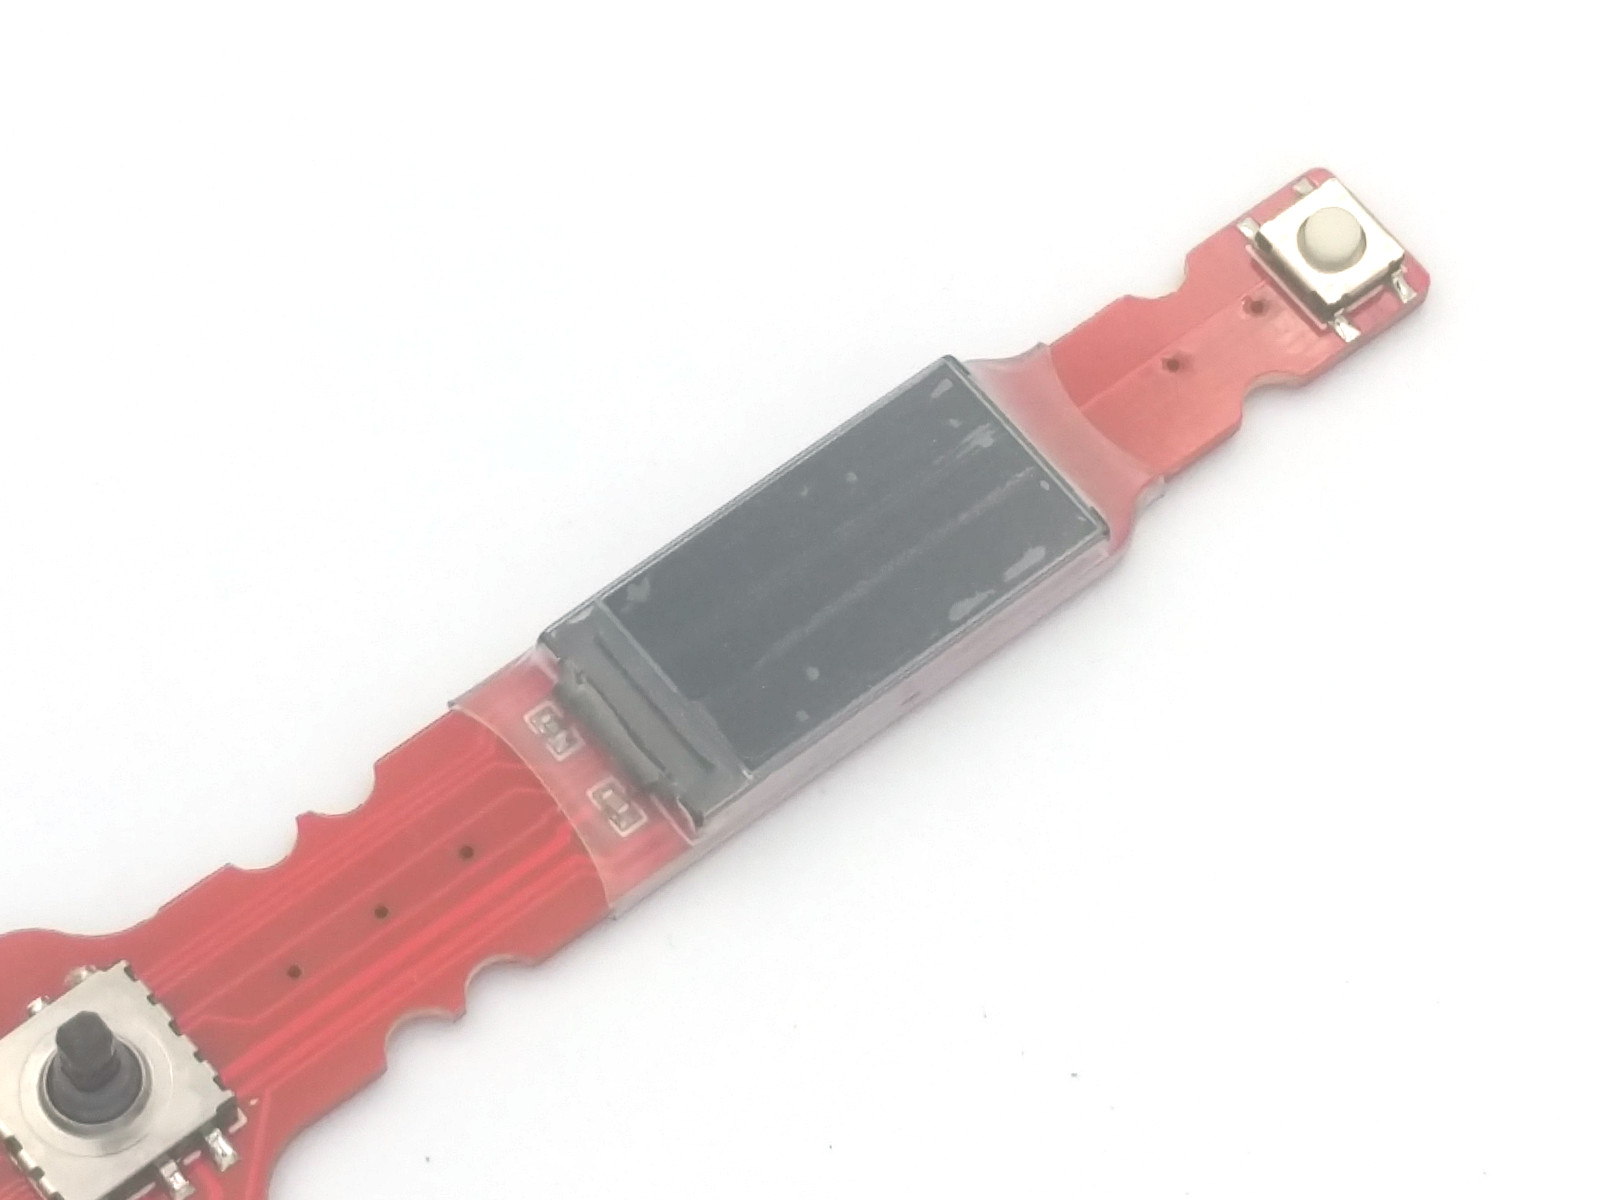
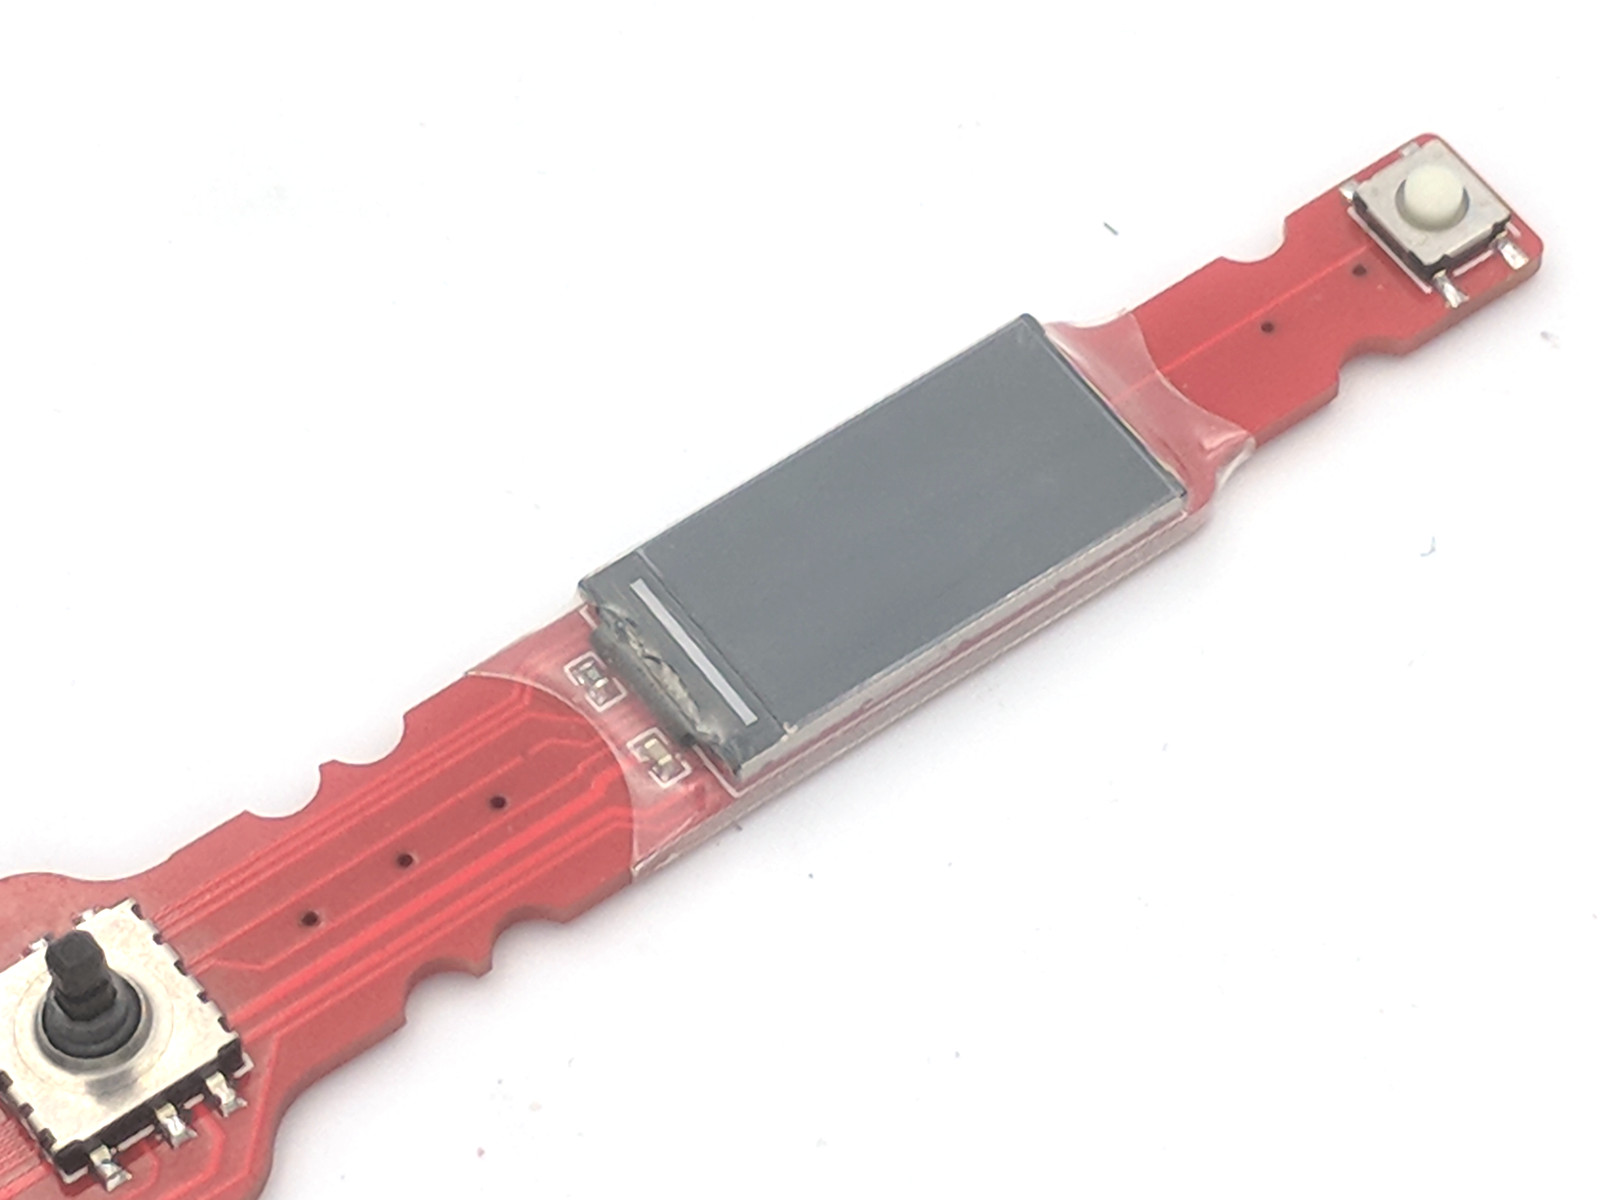
doc: use PVC heat shrink tube for display

Changed region(s): [[0.0, 0.0925, 0.9688, 1.0], [0.4688, 0.3392, 0.5625, 0.4008], [0.4375, 0.4008, 0.4688, 0.4317]]

diff --git a/doc/assembly.md b/doc/assembly.md
@@ -4,7 +4,7 @@ Device assembly <!-- omit in toc -->
 - [Required components](#required-components)
 - [PCB assembly](#pcb-assembly)
 - [Firmware upload](#firmware-upload)
-- [Motor &amp; syringe mount](#motor-amp-syringe-mount)
+- [Motor & syringe mount](#motor--syringe-mount)
 - [Needle caps](#needle-caps)
 - [The end :)](#the-end)
 
@@ -20,7 +20,7 @@ paste, low temp paste, flux).
 2 | [0.96" IPS Display](https://www.aliexpress.com/item/32861823719.html) |
 3 | [Micro stepper motor](https://www.aliexpress.com/item/32979960185.html) | Other motors will need rework of 3d-printed supports.
 4 | [Gearbox 1:300+ with long shaft](https://www.aliexpress.com/item/32987637967.html) | For max gear ratio select lowest RPM.
-5 | [Transparent heat shrink tube 18mm](https://www.aliexpress.com/item/32791427710.html) | Display mount.
+5 | [PVC transparent heat shrink tube 23mm](https://aliexpress.ru/item/32787322976.html) | Display mount.
 6 | [Double side foam tape, 15*1mm](https://www.aliexpress.com/item/33050888785.html) | Display mount.
 6 | [22 AWG wire](https://www.aliexpress.com/item/32854919883.html) | SMT stencil positioning & motor/syringe supports mount.
 7 | [Heat shrink tube 35mm](https://www.aliexpress.com/item/32791427710.html) | Motor mount / electronics protection.
@@ -67,15 +67,14 @@ Now mount LCD to PCB:
 
 - Use double side foam tape. Stick to LCD first, then cut borders, then stick
   to PCB
-- Fit heat shrink tube over that. You need 40-42mm of 18mm-wide tube. Center it
-  over LCD, then shrink back side, then front side.
+- Fit heat shrink tube over that. You need 40mm of 23mm-wide tube. Center it
+  over LCD, then shrink sides, front and back.
 
 ![](images/dispenser_lcd_mount.jpg)
 
-Don't worry about small air bubbles between heat shrink tube and screen surface,
-those will not affect image quality anyhow. It's possible to use special
-UV-activated glue for displays to avoid air gaps. But that does not worth
-efforts been spent.
+Don't worry about small air bubbles at screen surface, those will not affect
+image quality anyhow. It's possible to use special UV-activated glue for
+displays to avoid air gaps. But that does not worth efforts been spent.
 
 Assembled PCB with power on:
 
